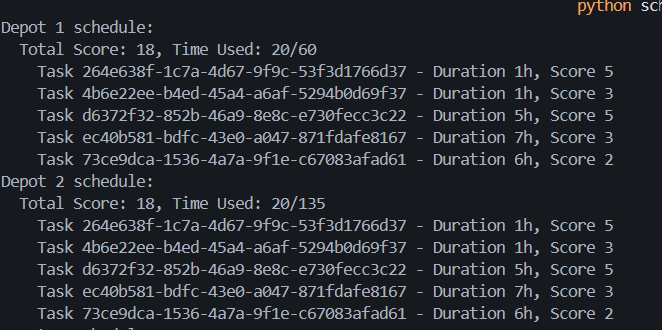
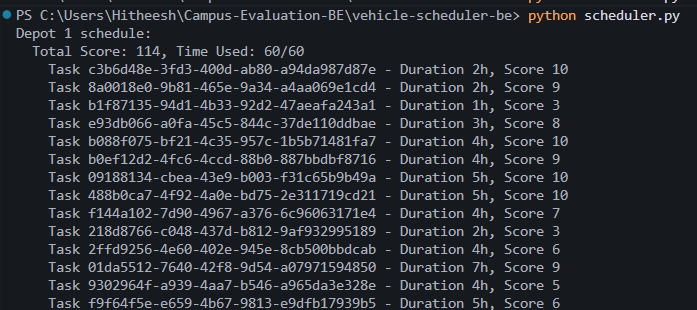
Completed Stage 6 priority inbox implementation

diff --git a/vehicle-scheduler-be/priority_inbox.py b/vehicle-scheduler-be/priority_inbox.py
@@ -1,0 +1,25 @@
+from heapq import nlargest
+
+priority_map = {"Placement": 3, "Result": 2, "Event": 1}
+
+def fetch_notifications():
+    # Mocked notifications if API is protected
+    return [
+        {"id": 1, "notificationType": "Placement", "message": "Drive tomorrow", "isRead": False, "createdAt": "2026-07-01T09:00:00Z"},
+        {"id": 2, "notificationType": "Result", "message": "Exam results out", "isRead": False, "createdAt": "2026-07-01T08:00:00Z"},
+        {"id": 3, "notificationType": "Event", "message": "Workshop today", "isRead": False, "createdAt": "2026-07-01T07:00:00Z"},
+    ]
+
+def priority_score(notification):
+    return (priority_map.get(notification["notificationType"], 0), notification["createdAt"])
+
+def get_top_notifications(n=10):
+    notifications = fetch_notifications()
+    unread = [n for n in notifications if not n["isRead"]]
+    top = nlargest(n, unread, key=priority_score)
+    return top
+
+if __name__ == "__main__":
+    top10 = get_top_notifications()
+    for n in top10:
+        print(f"{n['notificationType']} - {n['message']} ({n['createdAt']})")

diff --git a/notification-system-design.md b/notification-system-design.md
@@ -73,3 +73,63 @@ Performance considerations.
 - Caching adds complexity and requires invalidation strategies.
 - Pagination improves performance but requires front-end handling.
 - Push model ensures instant updates but requires persistent connections and more server resources.
+
+
+## Stage 5
+Redesign the "Notify All" pseudocode.
+
+### Issues
+- Sequential loop → slow when many students.
+- No retry mechanism for failures.
+- Database writes and email sending tightly coupled.
+
+### Improved Design
+Use a **message queue** (RabbitMQ/Kafka) to decouple tasks and allow retries.
+
+### Pseudocode
+```python
+def notify_all(student_ids, message):
+    for student_id in student_ids:
+        enqueue_job("send_email", student_id, message)
+        enqueue_job("save_to_db", student_id, message)
+        enqueue_job("push_to_app", student_id, message)
+
+
+## Stage 6
+Priority Inbox implementation.
+
+### Requirement
+- Show top 10 unread notifications by priority (Placement > Result > Event) and recency.
+
+### Approach
+- Assign numeric priority values to each notification type.
+- Use a heap or sorting to select the top 10 based on priority and timestamp.
+- Ensure only unread notifications are considered.
+
+### Python Code
+```python
+from heapq import nlargest
+
+priority_map = {"Placement": 3, "Result": 2, "Event": 1}
+
+def fetch_notifications():
+    # Mocked notifications if API is protected
+    return [
+        {"id": 1, "notificationType": "Placement", "message": "Drive tomorrow", "isRead": False, "createdAt": "2026-07-01T09:00:00Z"},
+        {"id": 2, "notificationType": "Result", "message": "Exam results out", "isRead": False, "createdAt": "2026-07-01T08:00:00Z"},
+        {"id": 3, "notificationType": "Event", "message": "Workshop today", "isRead": False, "createdAt": "2026-07-01T07:00:00Z"},
+    ]
+
+def priority_score(notification):
+    return (priority_map.get(notification["notificationType"], 0), notification["createdAt"])
+
+def get_top_notifications(n=10):
+    notifications = fetch_notifications()
+    unread = [n for n in notifications if not n["isRead"]]
+    top = nlargest(n, unread, key=priority_score)
+    return top
+
+if __name__ == "__main__":
+    top10 = get_top_notifications()
+    for n in top10:
+        print(f"{n['notificationType']} - {n['message']} ({n['createdAt']})")